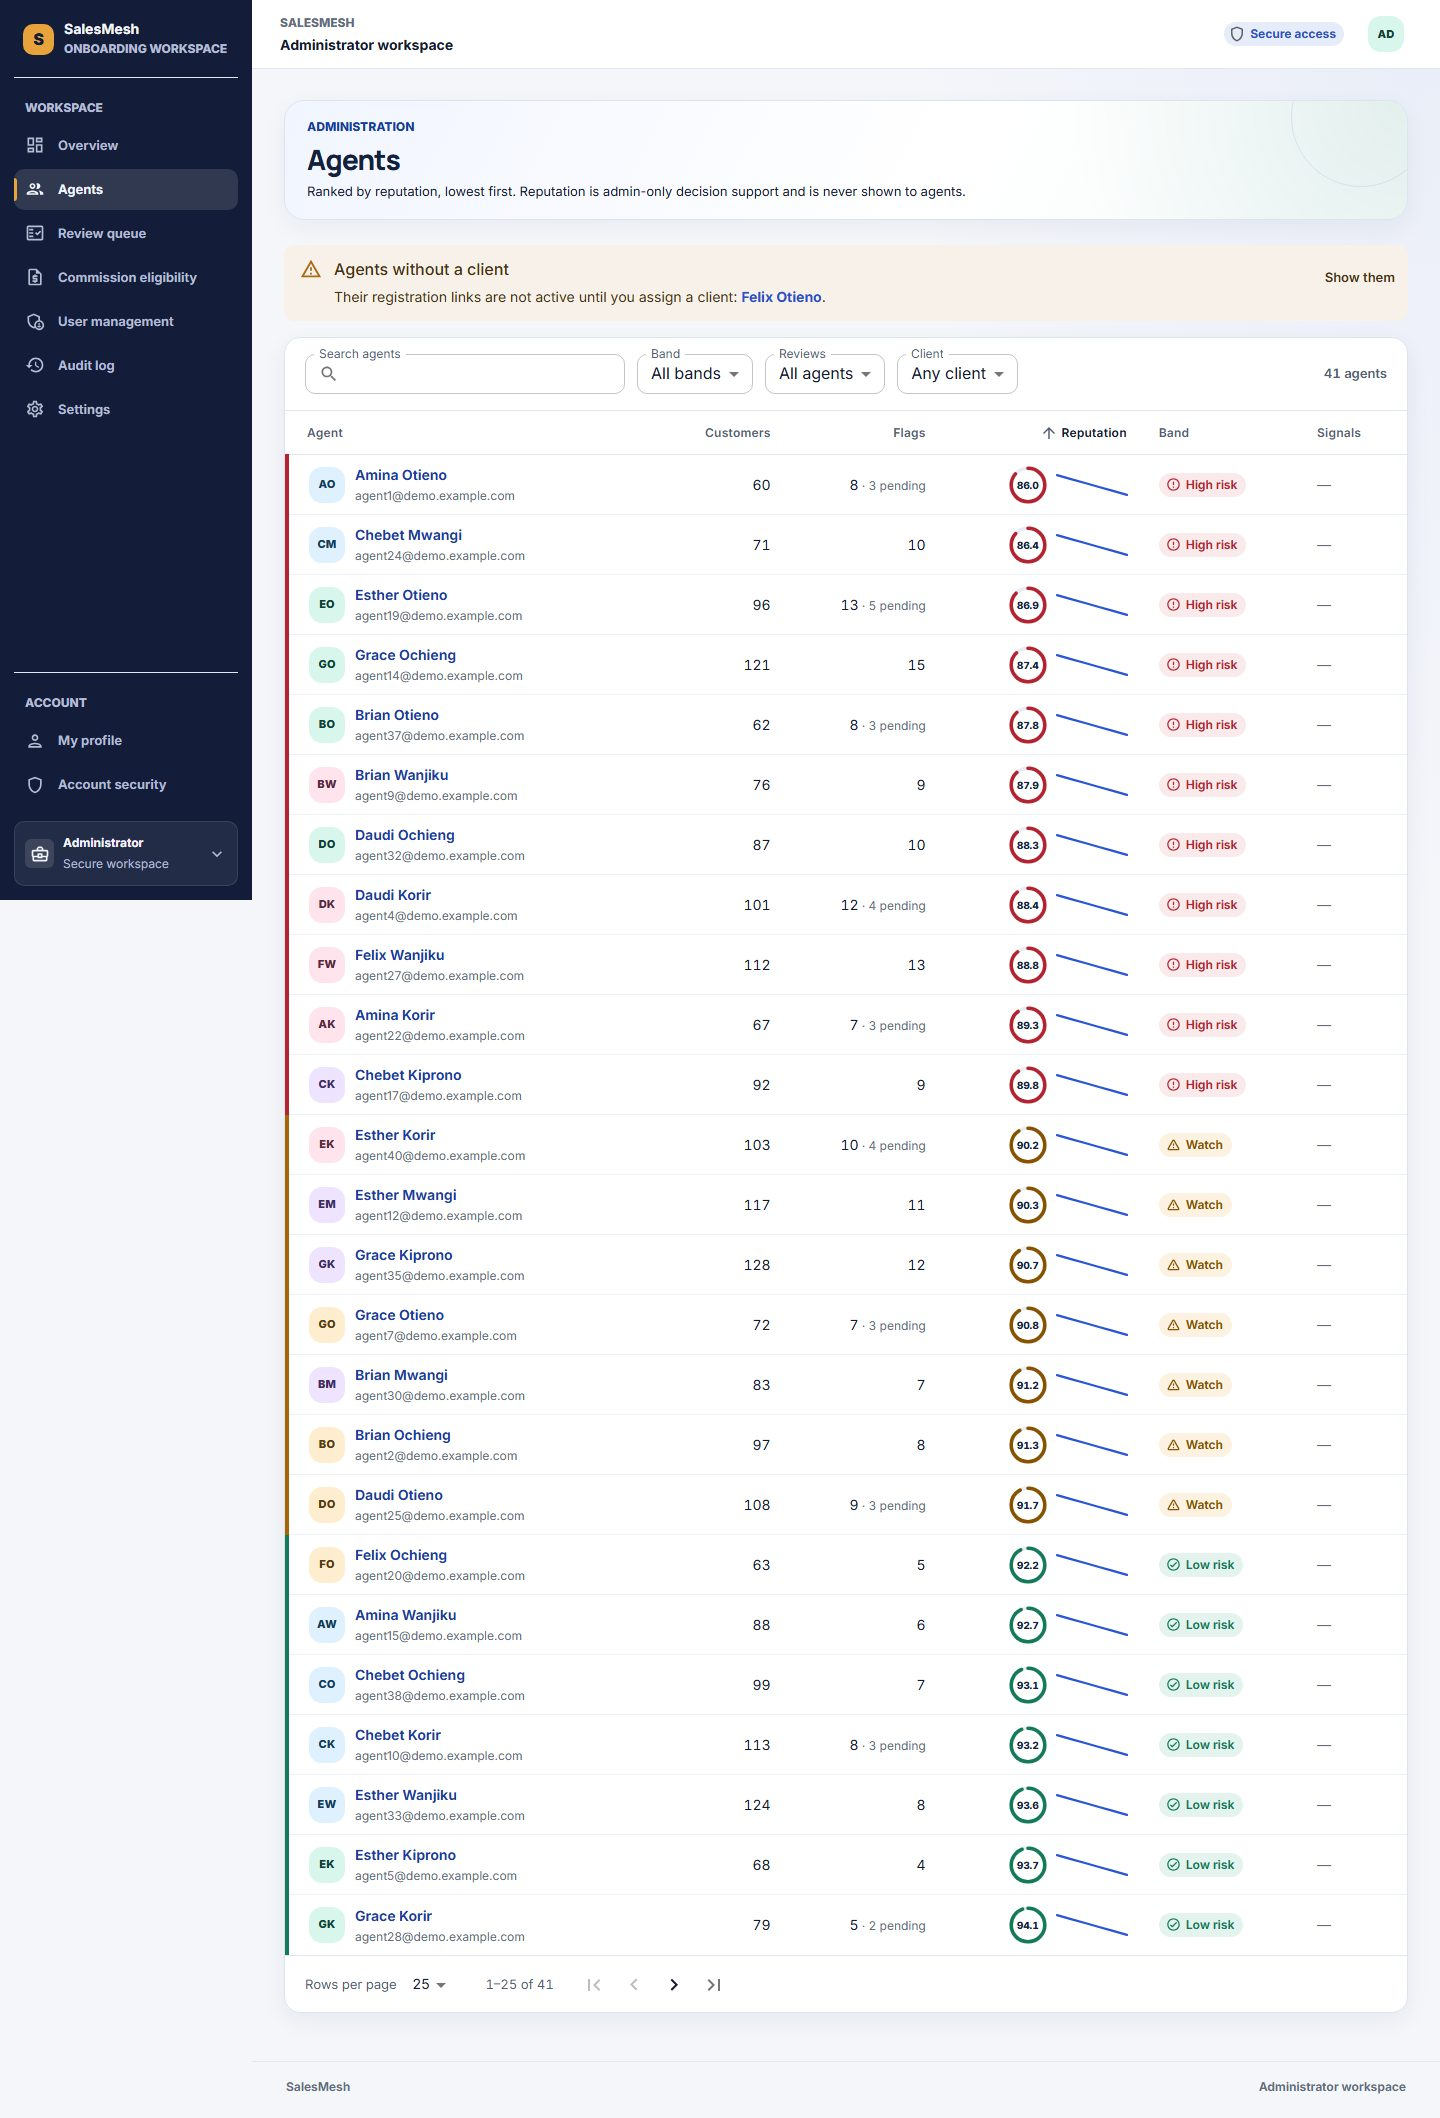
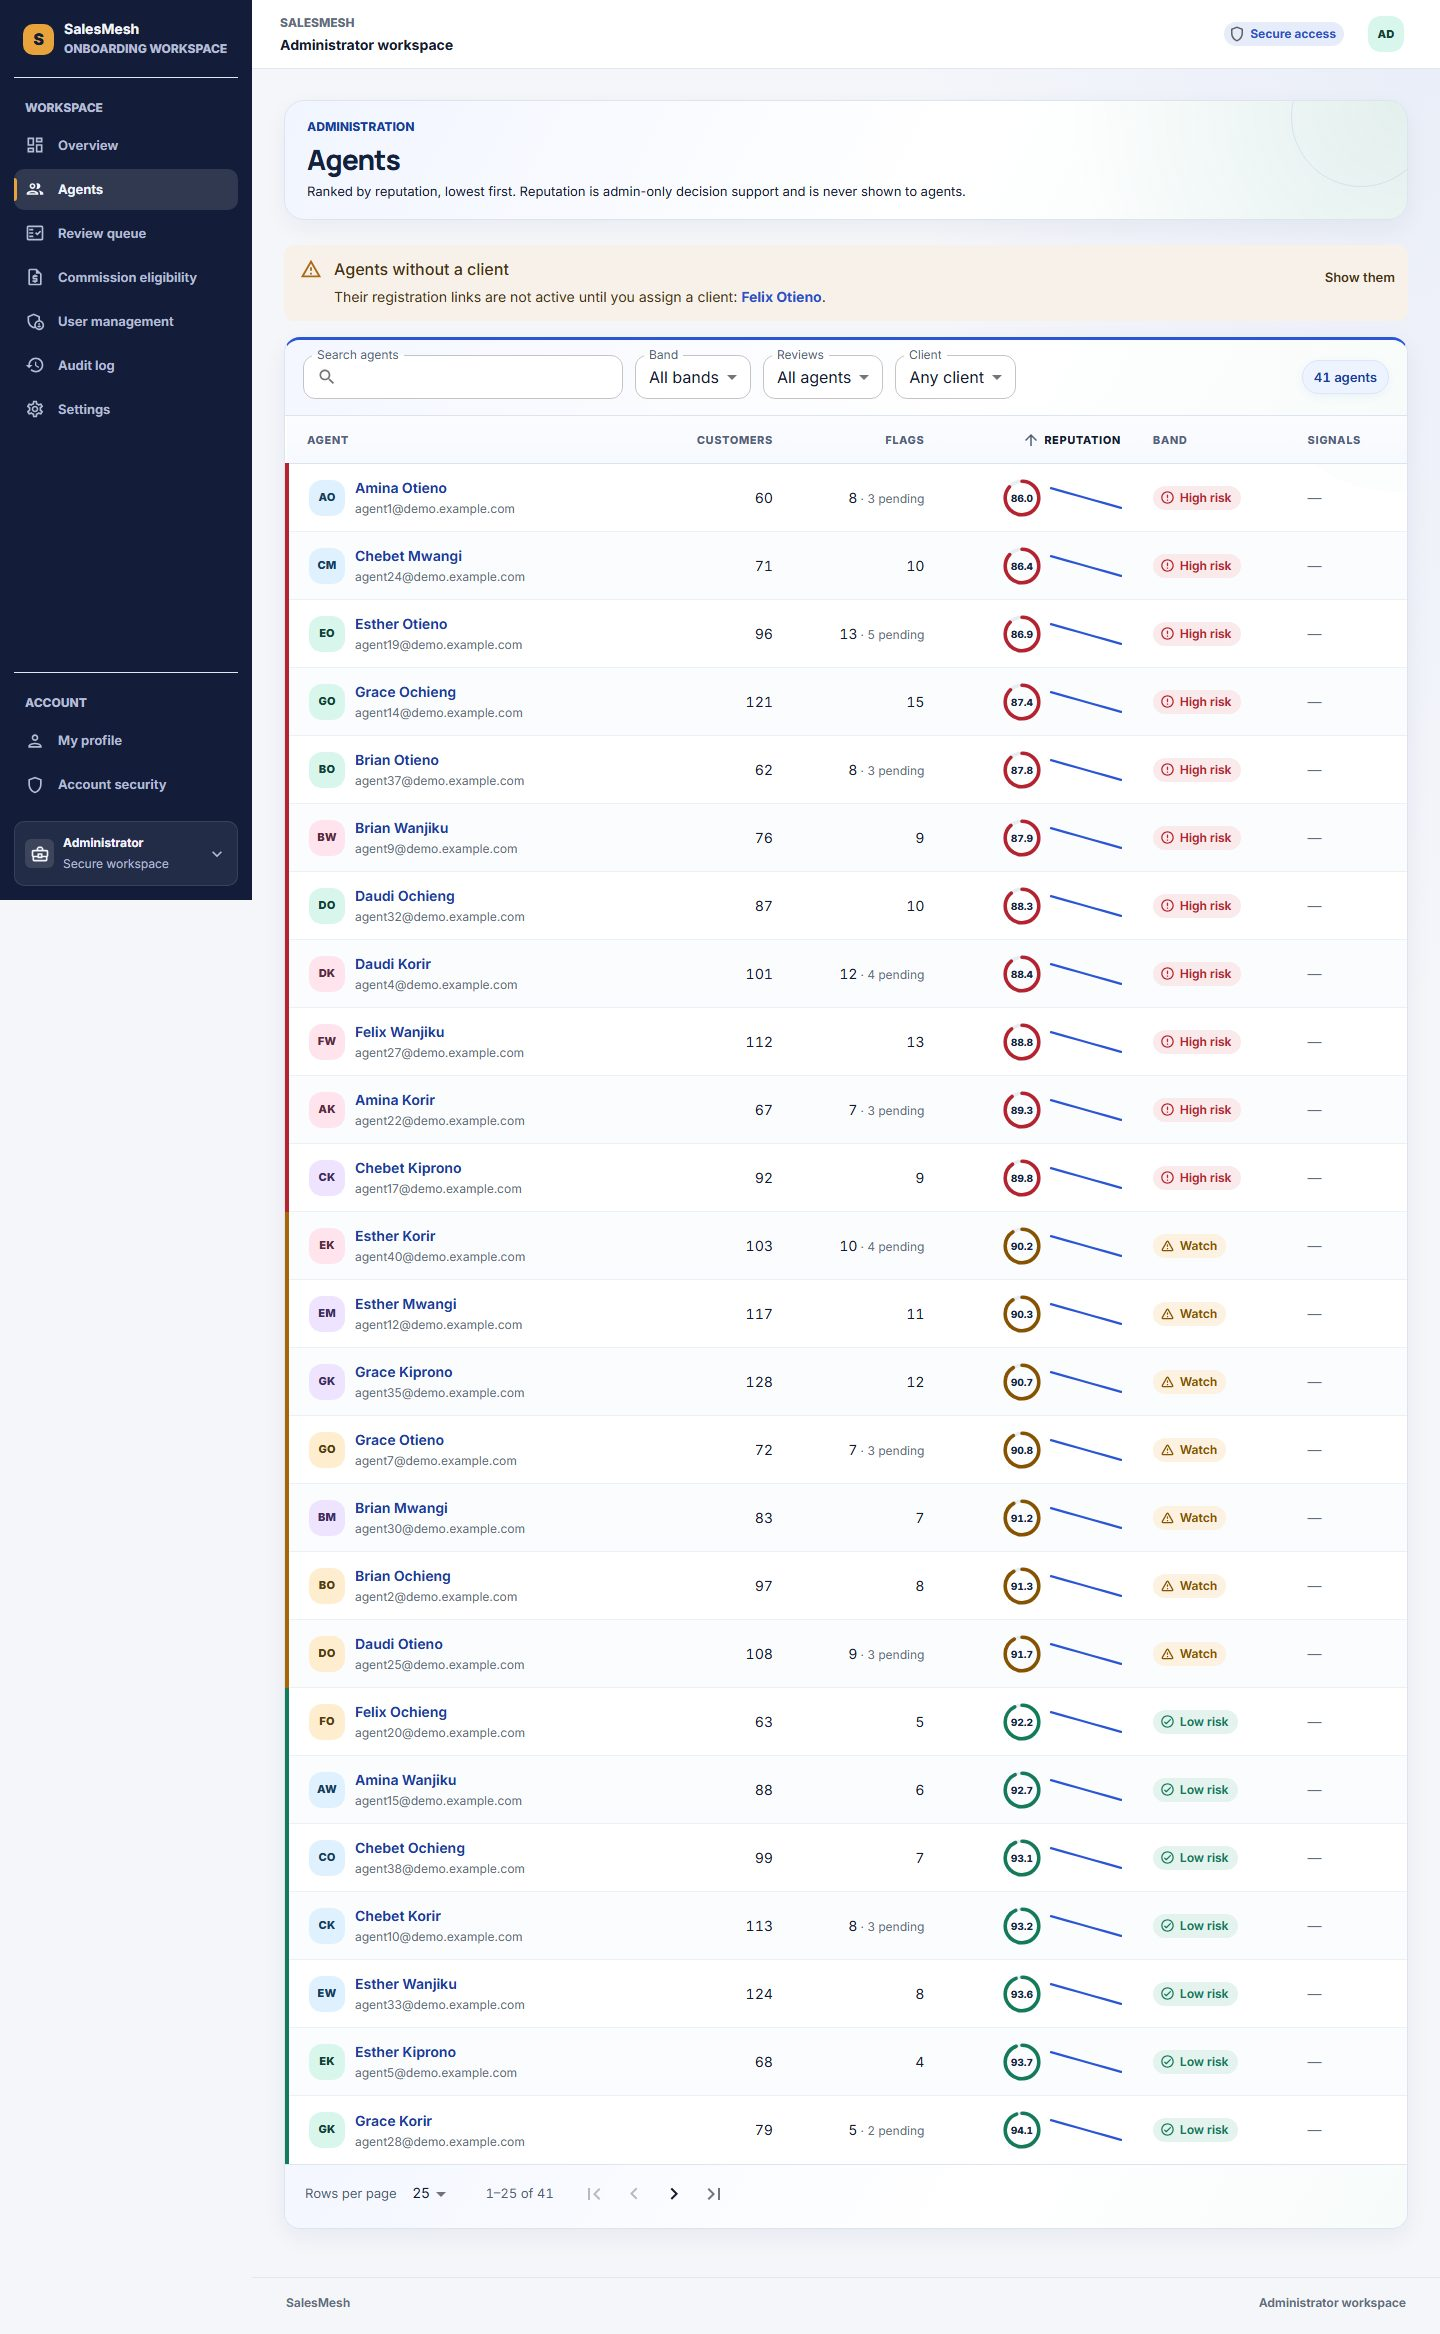
feat: refresh shared table and drawer styling

diff --git a/frontend/src/styles.css b/frontend/src/styles.css
@@ -1367,6 +1367,149 @@ a:hover {
   box-shadow: 0 8px 24px rgb(20 33 61 / 6%) !important;
 }
 
+.identity-workspace .list-card {
+  position: relative;
+  overflow: hidden;
+  border-top: 3px solid var(--identity-blue) !important;
+}
+
+.identity-workspace .list-card::before {
+  position: absolute;
+  z-index: 0;
+  top: -84px;
+  right: -82px;
+  width: 180px;
+  height: 180px;
+  border: 1px solid rgb(42 85 212 / 7%);
+  border-radius: 50%;
+  box-shadow:
+    0 0 0 28px rgb(42 85 212 / 2%),
+    0 0 0 56px rgb(19 123 104 / 1%);
+  content: "";
+  pointer-events: none;
+}
+
+.identity-workspace .table-toolbar,
+.identity-workspace .list-pager {
+  position: relative;
+  z-index: 1;
+  background: linear-gradient(
+    120deg,
+    rgb(241 245 255 / 82%),
+    rgb(255 255 255 / 94%) 62%,
+    rgb(246 251 249 / 90%)
+  );
+}
+
+.identity-workspace .table-toolbar {
+  min-height: 76px;
+  padding: 14px 18px;
+  border-bottom-color: var(--identity-line);
+}
+
+.identity-workspace .table-search,
+.identity-workspace .table-filter {
+  background: rgb(255 255 255 / 94%);
+  border-radius: 12px;
+}
+
+.identity-workspace .table-search .MuiOutlinedInput-root,
+.identity-workspace .table-filter .MuiOutlinedInput-root {
+  min-height: 44px;
+  border-radius: 12px;
+  background: rgb(255 255 255 / 94%);
+}
+
+.identity-workspace .table-count {
+  display: inline-flex;
+  min-height: 34px;
+  align-items: center;
+  padding: 0 11px;
+  color: var(--identity-blue-deep);
+  background: #edf3ff;
+  border: 1px solid #dbe5fb;
+  border-radius: 999px;
+  box-shadow: 0 3px 10px rgb(42 85 212 / 5%);
+}
+
+.identity-workspace .list-table-scroll {
+  position: relative;
+  z-index: 1;
+}
+
+.identity-workspace .list-table .MuiTableCell-head {
+  height: 48px;
+  color: #53627a;
+  background: linear-gradient(180deg, #fbfcff, #f6f9fd);
+  border-bottom-color: #dbe5ef;
+  font-size: 11px;
+  font-weight: 800;
+  letter-spacing: 0.055em;
+  text-transform: uppercase;
+}
+
+.identity-workspace .list-table .MuiTableCell-body {
+  height: 68px;
+  border-bottom-color: #edf1f5;
+  transition:
+    background 150ms ease,
+    color 150ms ease;
+}
+
+.identity-workspace .list-table .list-row:hover .MuiTableCell-body {
+  background: #f7f9ff;
+}
+
+.identity-workspace .list-table .list-row.Mui-selected .MuiTableCell-body {
+  background: #edf4ff;
+}
+
+.identity-workspace .list-table tbody tr:nth-of-type(even) .MuiTableCell-body {
+  background: rgb(248 250 253 / 58%);
+}
+
+.identity-workspace .list-pager {
+  min-height: 64px;
+  border-top-color: var(--identity-line);
+}
+
+.identity-workspace .list-cards {
+  position: relative;
+  z-index: 1;
+  gap: 10px;
+  padding: 10px;
+  background: #f8fafc;
+}
+
+.identity-workspace .list-cards li + li {
+  border-top: 0;
+}
+
+.identity-workspace .list-card-row {
+  min-height: 94px;
+  gap: 8px;
+  padding: 15px 16px;
+  background: #fff;
+  border: 1px solid #dfe6ef;
+  border-radius: 14px;
+  box-shadow: 0 5px 16px rgb(20 33 61 / 5%);
+  transition:
+    transform 150ms ease,
+    box-shadow 150ms ease,
+    background 150ms ease;
+}
+
+.identity-workspace .list-card-row:hover {
+  background: #fbfcff;
+  box-shadow: 0 8px 20px rgb(20 33 61 / 8%);
+  transform: translateY(-1px);
+}
+
+.identity-workspace .list-card-row .row-open {
+  min-height: 48px;
+  border-radius: 9px;
+}
+
 .identity-workspace .kpi-card {
   position: relative;
   overflow: hidden;
@@ -1400,6 +1543,30 @@ a:hover {
 .identity-workspace .chart-card-heading h2 {
   color: var(--identity-ink);
   letter-spacing: -0.015em;
+}
+
+.identity-workspace .detail-drawer .MuiDrawer-paper {
+  border-radius: 22px 0 0 22px;
+  box-shadow: -12px 0 36px rgb(20 33 61 / 14%);
+}
+
+.identity-workspace .detail-drawer-head {
+  background:
+    radial-gradient(circle at 92% 0%, rgb(19 123 104 / 10%), transparent 38%),
+    linear-gradient(135deg, #f2f6ff, #fff 72%, #f4fbf8);
+  border-bottom: 1px solid var(--identity-line);
+}
+
+.identity-workspace .detail-section {
+  padding: 14px 16px;
+  background: #fff;
+  border: 1px solid var(--identity-line);
+  border-radius: 16px;
+}
+
+.identity-workspace .detail-section-title {
+  color: var(--identity-blue-deep);
+  letter-spacing: 0.02em;
 }
 
 .identity-public .public-header {

diff --git a/docs/ui-redesign.md b/docs/ui-redesign.md
@@ -151,6 +151,12 @@ No scoring features, response fields, or client/agent disclosures were added.
 - The shared `ListTable` empty state uses the original mesh SVG. Search,
   sorting, row actions, pagination, drawers, and empty-state wording remain
   unchanged.
+- Shared table cards use a three-pixel brand-accent top edge, a light
+  blue-to-mint toolbar, a compact result-count pill, calm uppercase headers,
+  subtle alternating row fills, visible hover/selection states, and mobile
+  cards with restrained shadows. Risk-band row edges and text badges remain
+  unchanged. Shared drawers use a mesh-gradient header and grouped section
+  cards; no table or drawer exposes new fields.
 - Public registration, registration-pending, sign-up, Forgot Password, Profile,
   change-password, and 403/404 status pages share the visual identity. Password
   reset email links continue to be handled by Firebase; there is no separate
